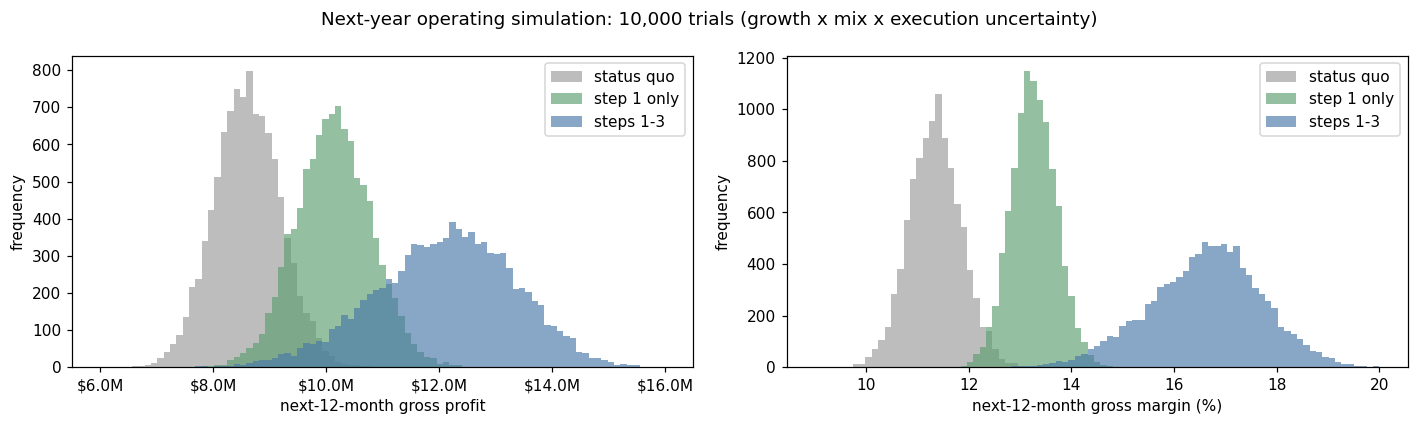
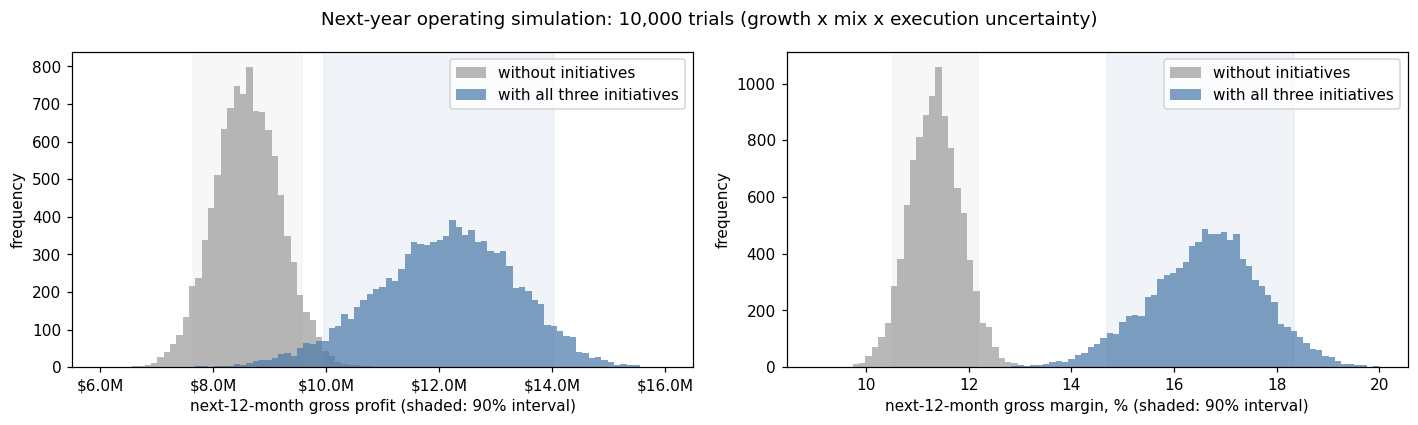
Simulate next year with all three initiatives vs none; report paired changes with 90% intervals

diff --git a/README.en.md b/README.en.md
@@ -59,7 +59,7 @@ Built on three years of AdventureWorks transaction history (121,253 order lines,
 | Reseller growth without profit | LTM revenue +34%, gross profit +$0.76M → −$0.63M |
 | Selling below cost | 61% of reseller revenue ($22.5M) is priced below standard cost |
 | Recommendation: three pricing steps | Gross profit $6.0M → $9.3M, gross margin 11.3% → 18.2% (assuming 20% of affected volume is lost; revenue about 4% lower); step 1, a floor-and-approval rule for extra discounts, alone adds +$1.2M without reducing revenue |
-| Next-year operating simulation | 10,000 trials (growth × mix × execution): status quo gross profit $8.6M at 11.3% margin; with all three steps $12.2M (90%: $10.0M – $14.0M) at 16.7%, better than the status quo in 99.9% of trials |
+| Next-year operating simulation | 10,000 trials (growth × mix × execution): gross margin 11.3% → 16.7% (+5.3 points, 90% interval +3.4 to +6.9), gross profit $8.6M → $12.2M (+42%); the 90% interval with the initiatives lies entirely above the one without |
 
 → [Full analysis: bridge, root causes, scenarios, action list](#part-2-profitability-analysis)
 
@@ -232,7 +232,7 @@ One policy is easier to approve, sequence and assign when it is split into separ
 - All three steps: gross profit $6.01M → $9.27M, company gross margin 11.3% → 18.2%, reseller gross margin −1.7% → 7.5%, on revenue about $2.1M (4%) lower
 - A caveat for step 1: for **clearance stock** the standard cost is already sunk — if the alternative is writing the stock off, selling below standard cost can be right. That is why step 1 is an approval rule, not a ban, and why its gain is an upper bound
 
-### 7 · Next-year operating simulation: status quo vs initiatives
+### 7 · Next-year operating simulation: with vs without the initiatives
 
 Section 6 measures the initiatives on the last twelve months; management plans for the **next** twelve, where three things are uncertain at once. The simulation combines them (10,000 trials):
 
@@ -242,22 +242,24 @@ Section 6 measures the initiatives on the last twelve months; management plans f
 | Seasonality and product / channel mix | each trial resamples 365 LTM days within their calendar month; every drawn day carries its full order book (channel, model, price, cost) | Part 1 month-stratified bootstrap |
 | Execution of the initiatives | affected volume kept ~ Triangular(60%, mode 80%, 100%); fixed share of standard cost ~ Uniform(0%, 30%) | **Assumptions** — the data has no price-elasticity or cost-structure information |
 
+Both scenarios — **without initiatives** and **with all three** — run on the **same** simulated years. Growth and mix are identical, so the difference in each trial is the effect of the initiatives alone.
+
 ![Next-year operating simulation](figures/15_profit_forecast.png)
 
-| Next 12 months (median, 90% interval) | Status quo | Step 1 only | All three steps |
-|---|---|---|---|
-| Revenue | $75.9M | $76.4M | $72.8M ($63.3M – $82.7M) |
-| Cost of goods sold | $67.3M | $66.3M | $60.7M |
-| Gross profit | $8.6M ($7.6M – $9.6M) | $10.1M ($9.1M – $11.2M) | **$12.2M ($10.0M – $14.0M)** |
-| Gross margin | 11.3% | 13.3% | **16.7% (14.7% – 18.3%)** |
-| Reseller gross margin | −1.7% | 1.2% | 5.5% |
+| Next 12 months (median, 90% interval) | Without initiatives | With all three | Change | Change % |
+|---|---|---|---|---|
+| Revenue | $75.9M ($67.5M – $84.4M) | $72.8M ($63.3M – $82.7M) | −$3.0M | −4% |
+| Cost of goods sold | $67.3M ($59.7M – $75.1M) | $60.7M ($52.6M – $69.1M) | −$6.4M | −10% |
+| Gross profit | $8.6M ($7.6M – $9.6M) | **$12.2M ($10.0M – $14.0M)** | **+$3.6M** (+$1.6M to +$4.9M) | **+42%** (+19% to +57%) |
+| Gross margin | 11.3% (10.5% – 12.2%) | **16.7% (14.7% – 18.3%)** | **+5.3 points** (+3.4 to +6.9) | relative +47% (+30% to +62%) |
+| Reseller gross margin | −1.7% | 5.5% | +7.2 points | — |
 
-- **Step 1 only (discount approval)**: gross profit +$1.5M, gross margin +1.9 points, revenue essentially unchanged — better than the status quo in all 10,000 trials
-- **All three steps**: gross profit +$3.6M (90%: +$1.6M to +$4.9M), gross margin 11.3% → 16.7%, reseller margin −1.7% → 5.5%, at the cost of ~$3.0M (4%) of revenue. Across the assumed ranges (60–100% of affected volume kept, 0–30% of cost fixed) it beats the status quo in 99.9% of trials
-- **COGS falls by ~$6.4M, but this is not a cost saving**: unit costs do not change; COGS falls only because fewer units are sold. The margin improvement comes entirely from pricing
-- **The one assumption that can break the plan is the fixed share of cost**: at 40%, the median gain of all three steps is still +$1.6M, but about 15% of trials lose money. That is why confirming the cost structure comes first in Section 8
+- **The two 90% intervals do not overlap**: the pessimistic end with initiatives (5th percentile: gross profit $9.96M, margin 14.7%) is above the optimistic end without them (95th percentile: $9.57M, 12.2%)
+- Gross profit is higher in 99.94% of trials, gross margin in all of them
+- **COGS falls by $6.4M, but this is not a cost saving**: unit costs do not change; COGS falls only because fewer units are sold. The margin improvement comes entirely from pricing
+- **The one assumption that can break the plan is the fixed share of cost**: at 40%, the median gain is still +$1.6M, but about 15% of trials lose money. That is why confirming the cost structure comes first in Section 8
 
-> These are **projections under stated assumptions**, not realised results. Mix is frozen at the LTM pattern; if the shift towards loss-making models continues (Section 4), the status quo would be worse than shown and the plan worth more.
+> These are **projections under stated assumptions**, not realised results. Mix is frozen at the LTM pattern; if the shift towards loss-making models continues (Section 4), the no-initiative case would be worse than shown and the plan worth more.
 
 ### 8 · Findings → actions
 
